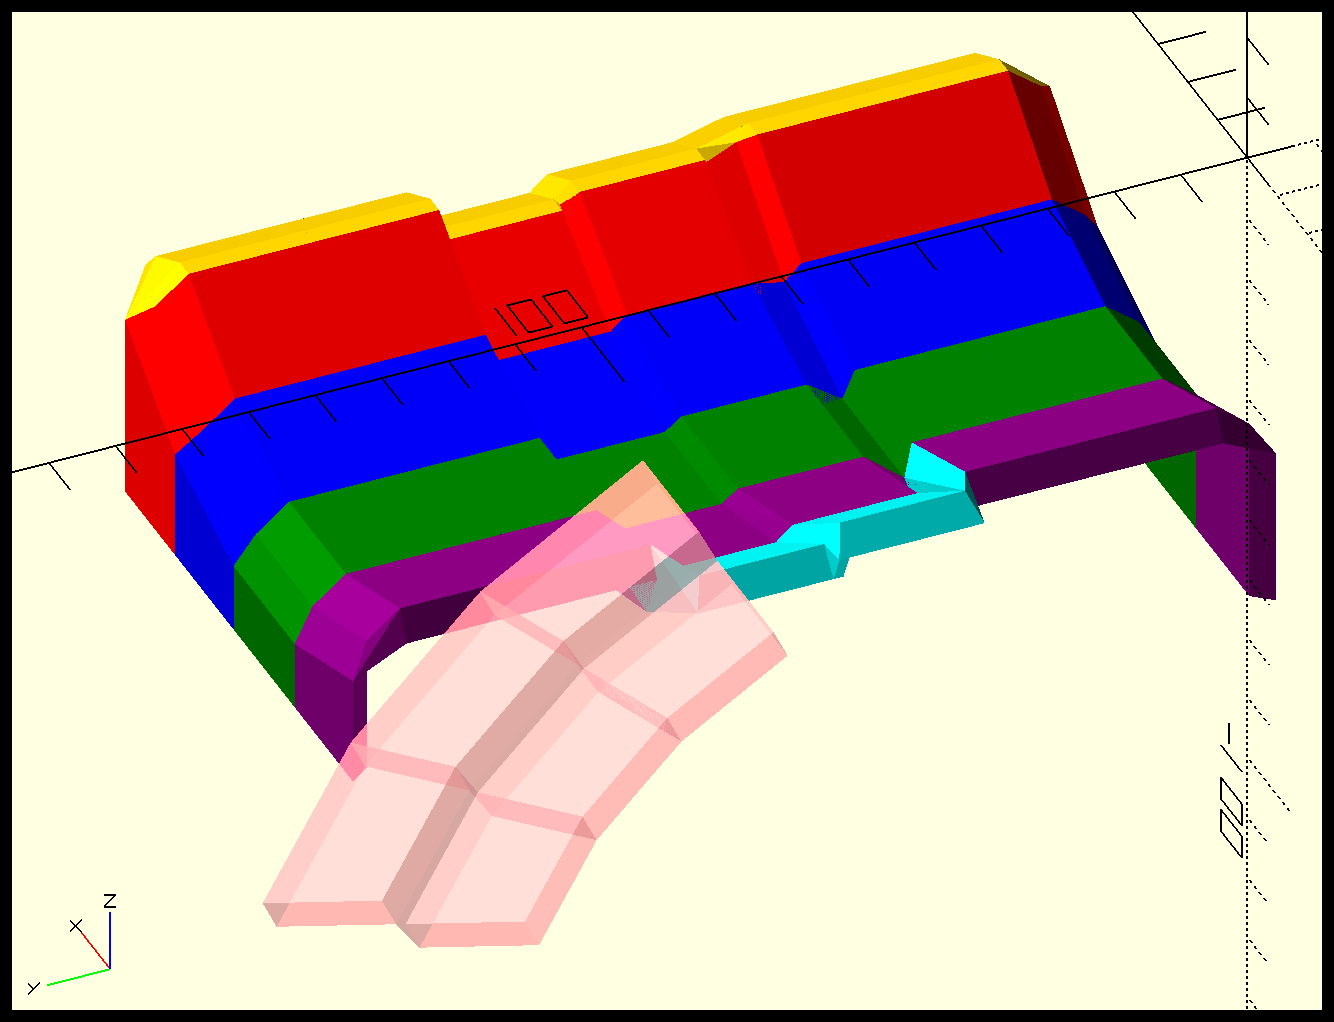
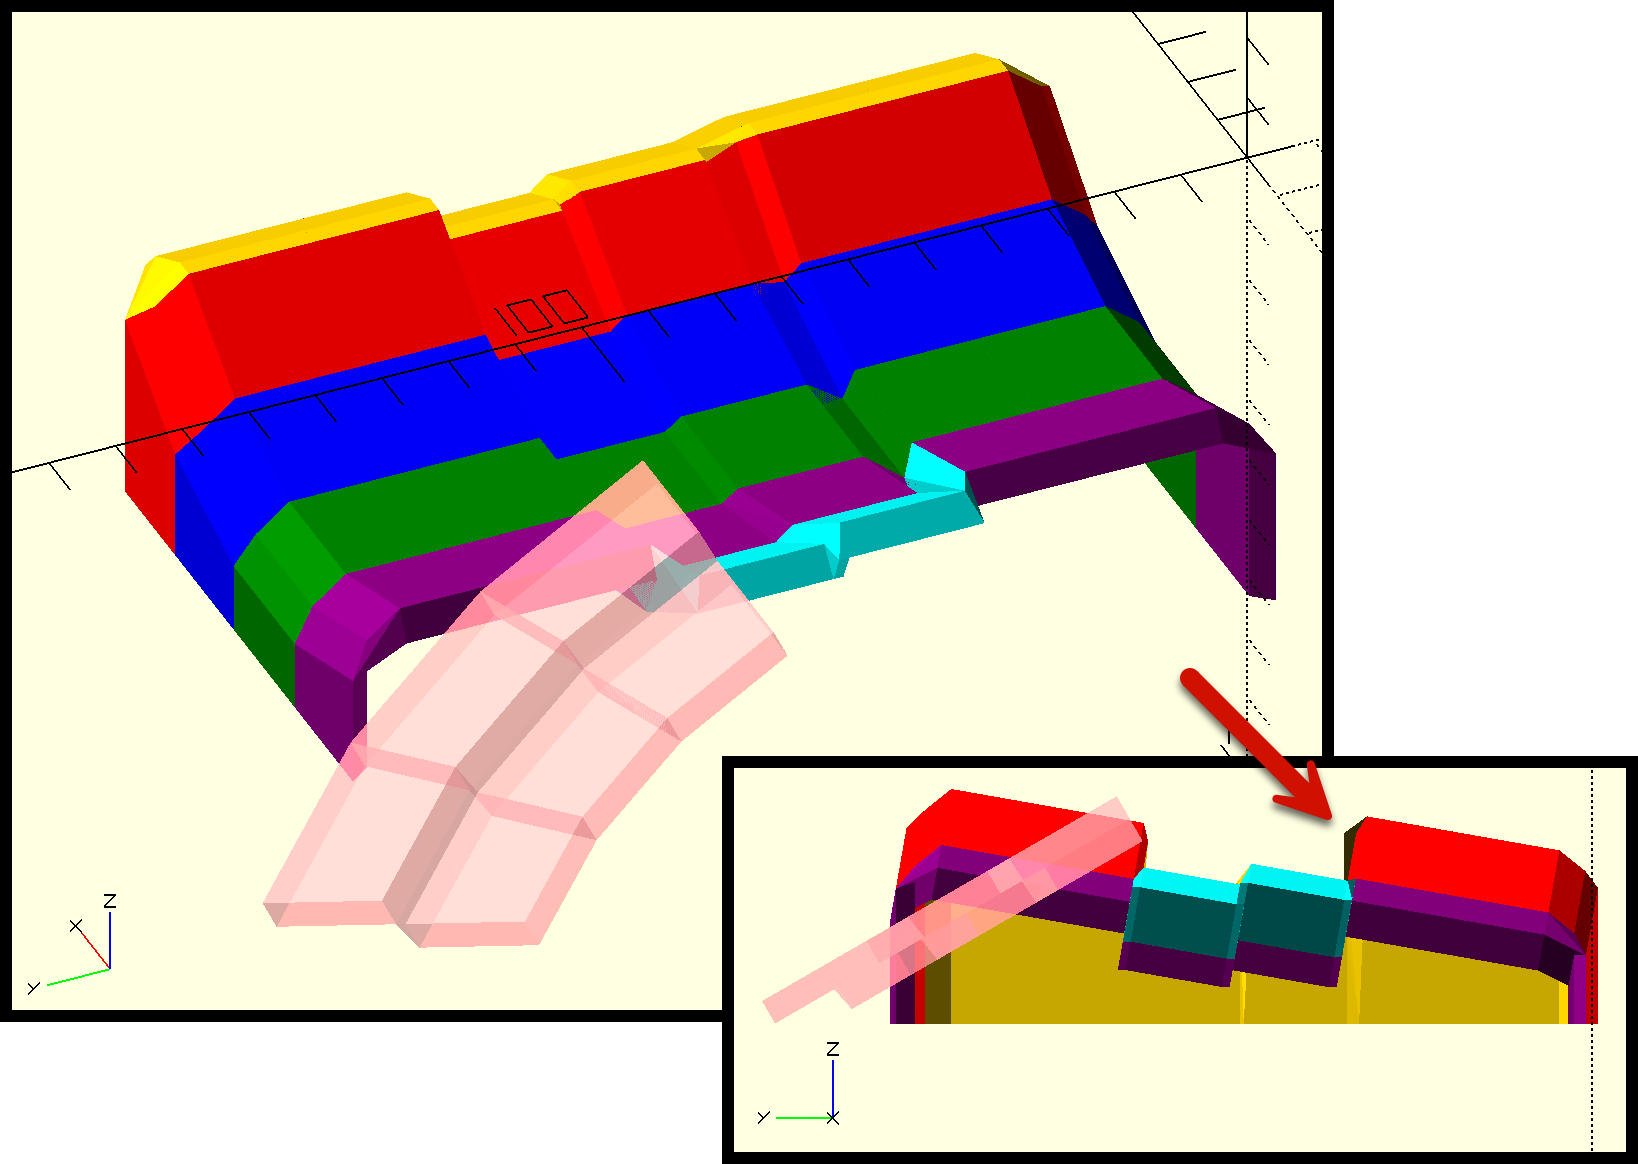
Add ability to tent case.

diff --git a/README.md b/README.md
@@ -12,6 +12,8 @@ I'm pausing on my work on the Go strategy, and revisiting how I'm generating the
 Got started on the thumb cluster without the trackball.  Working on getting it positioned right, and the walls generated
 in around it, and welding it to the main body of the case.
 
+I've managed to work in tenting of the body and to get a lot of the edge generation working, but there's still an artifact or two to work out.  This includes calculating the ideal height of the case based on the lowest point in the dish.
+
 ![Sat Mar 5 Progress](docs/build_log/2022-03-05_20-57-27.png)
 
 ### Fri Mar 4
